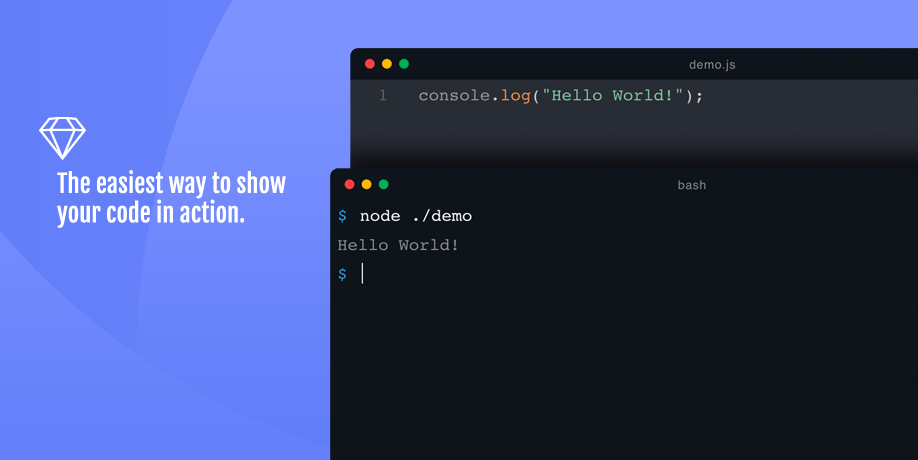
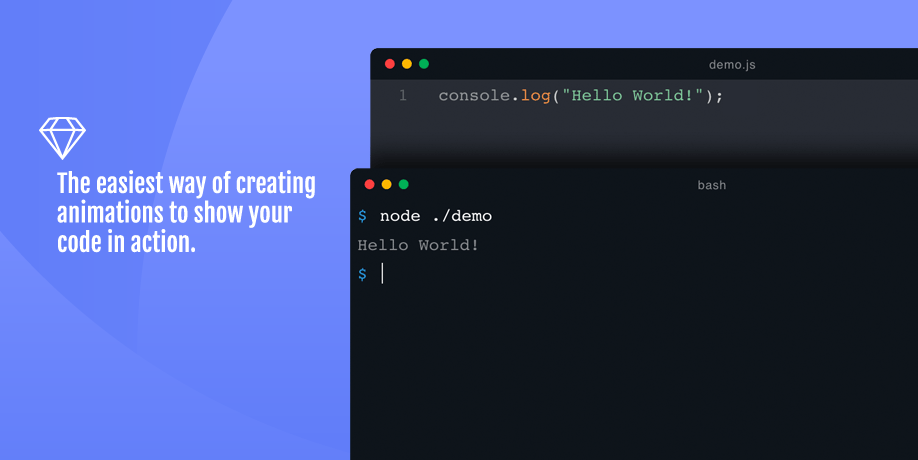
Improve glorious demo tag line

diff --git a/src/scripts/codes/views/demo/demo.html b/src/scripts/codes/views/demo/demo.html
@@ -5,7 +5,7 @@
         heading="Glorious Demo"
         external-link-href="https://github.com/glorious-codes/glorious-demo#install">
         <p>
-          The easiest way to show your code in action.
+          The easiest way of creating animations to show your code in action.
           <br>
           <code-weight-badge text="4.6kb Gzipped" />
         </p>

diff --git a/src/scripts/codes/services/demo-preview/demo-preview.js b/src/scripts/codes/services/demo-preview/demo-preview.js
@@ -54,7 +54,7 @@ function wrapInsideIIFE(demoCode){
     try {
       ${demoCode}
     } catch(err) {
-      compilationErrorHandler(err);
+      compilationErrorHandler && compilationErrorHandler(err);
     }
   }());`;
 }
